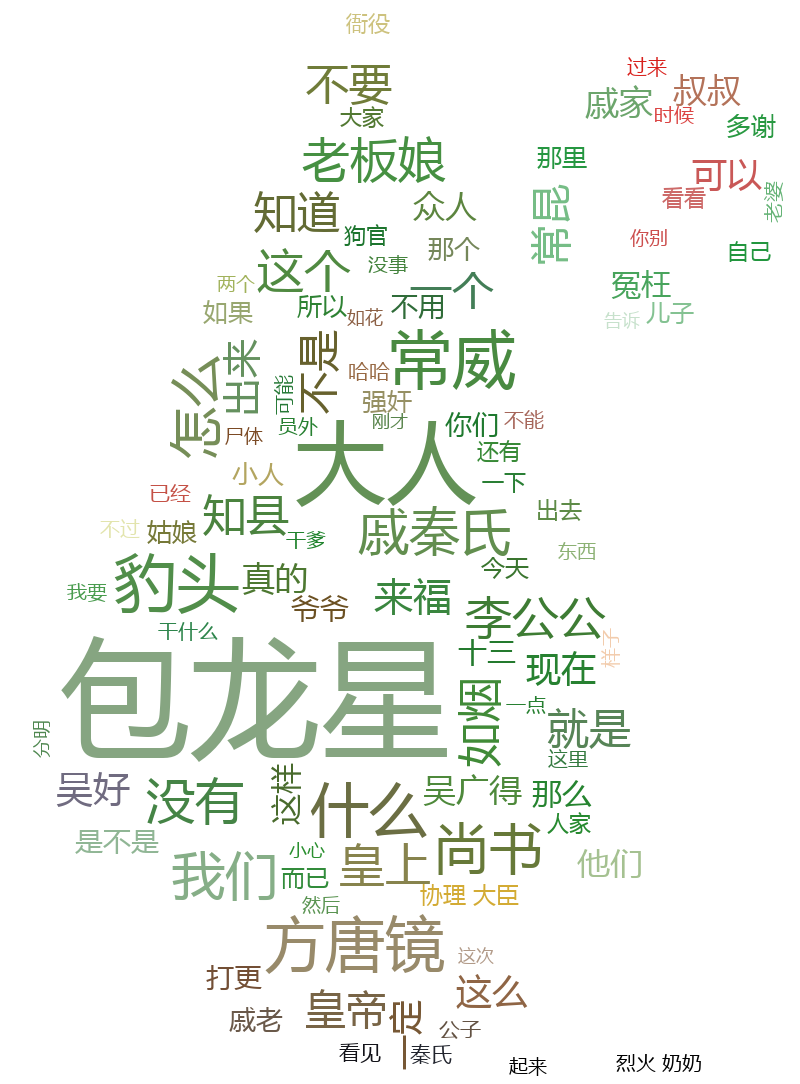
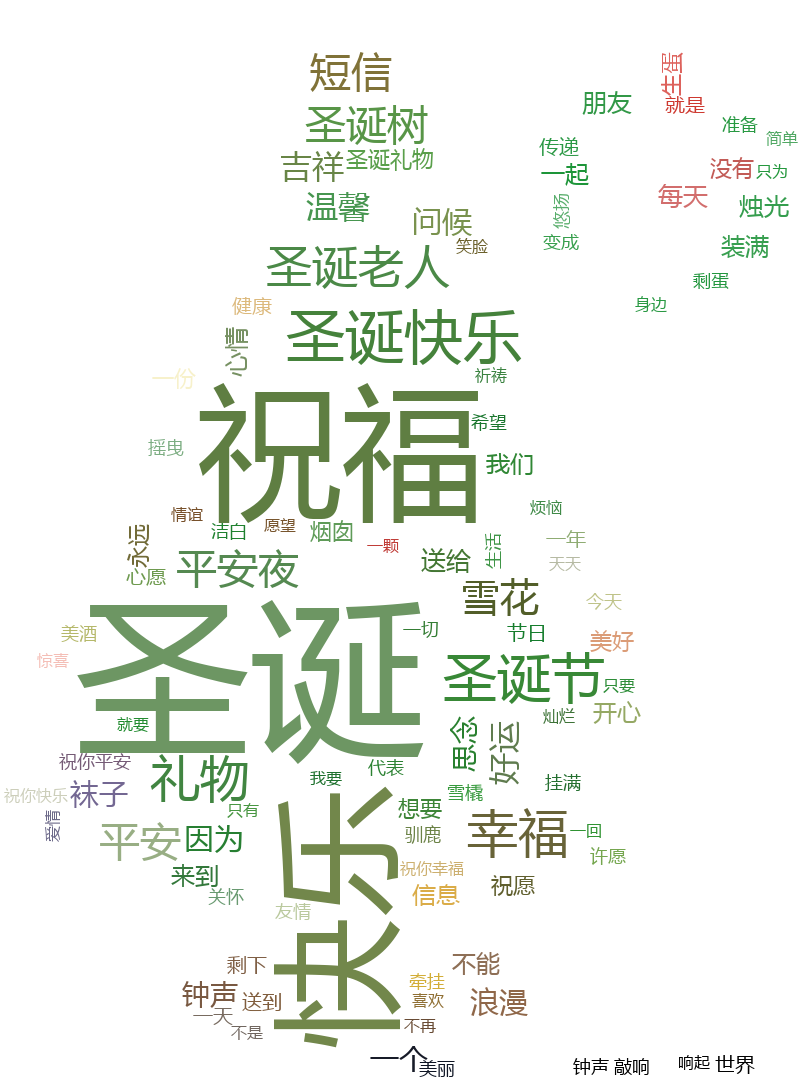
圣诞词库更新

diff --git a/pic.py b/pic.py
@@ -4,7 +4,7 @@ import jieba
 from wordcloud import WordCloud, STOPWORDS, ImageColorGenerator
 
 word_list=[]
-with open('static/九品芝麻官剧本.txt') as f:
+with open('static/merry.txt') as f:
     words = f.read()
 words = " ".join(jieba.cut(words))
 for word in words.split():
